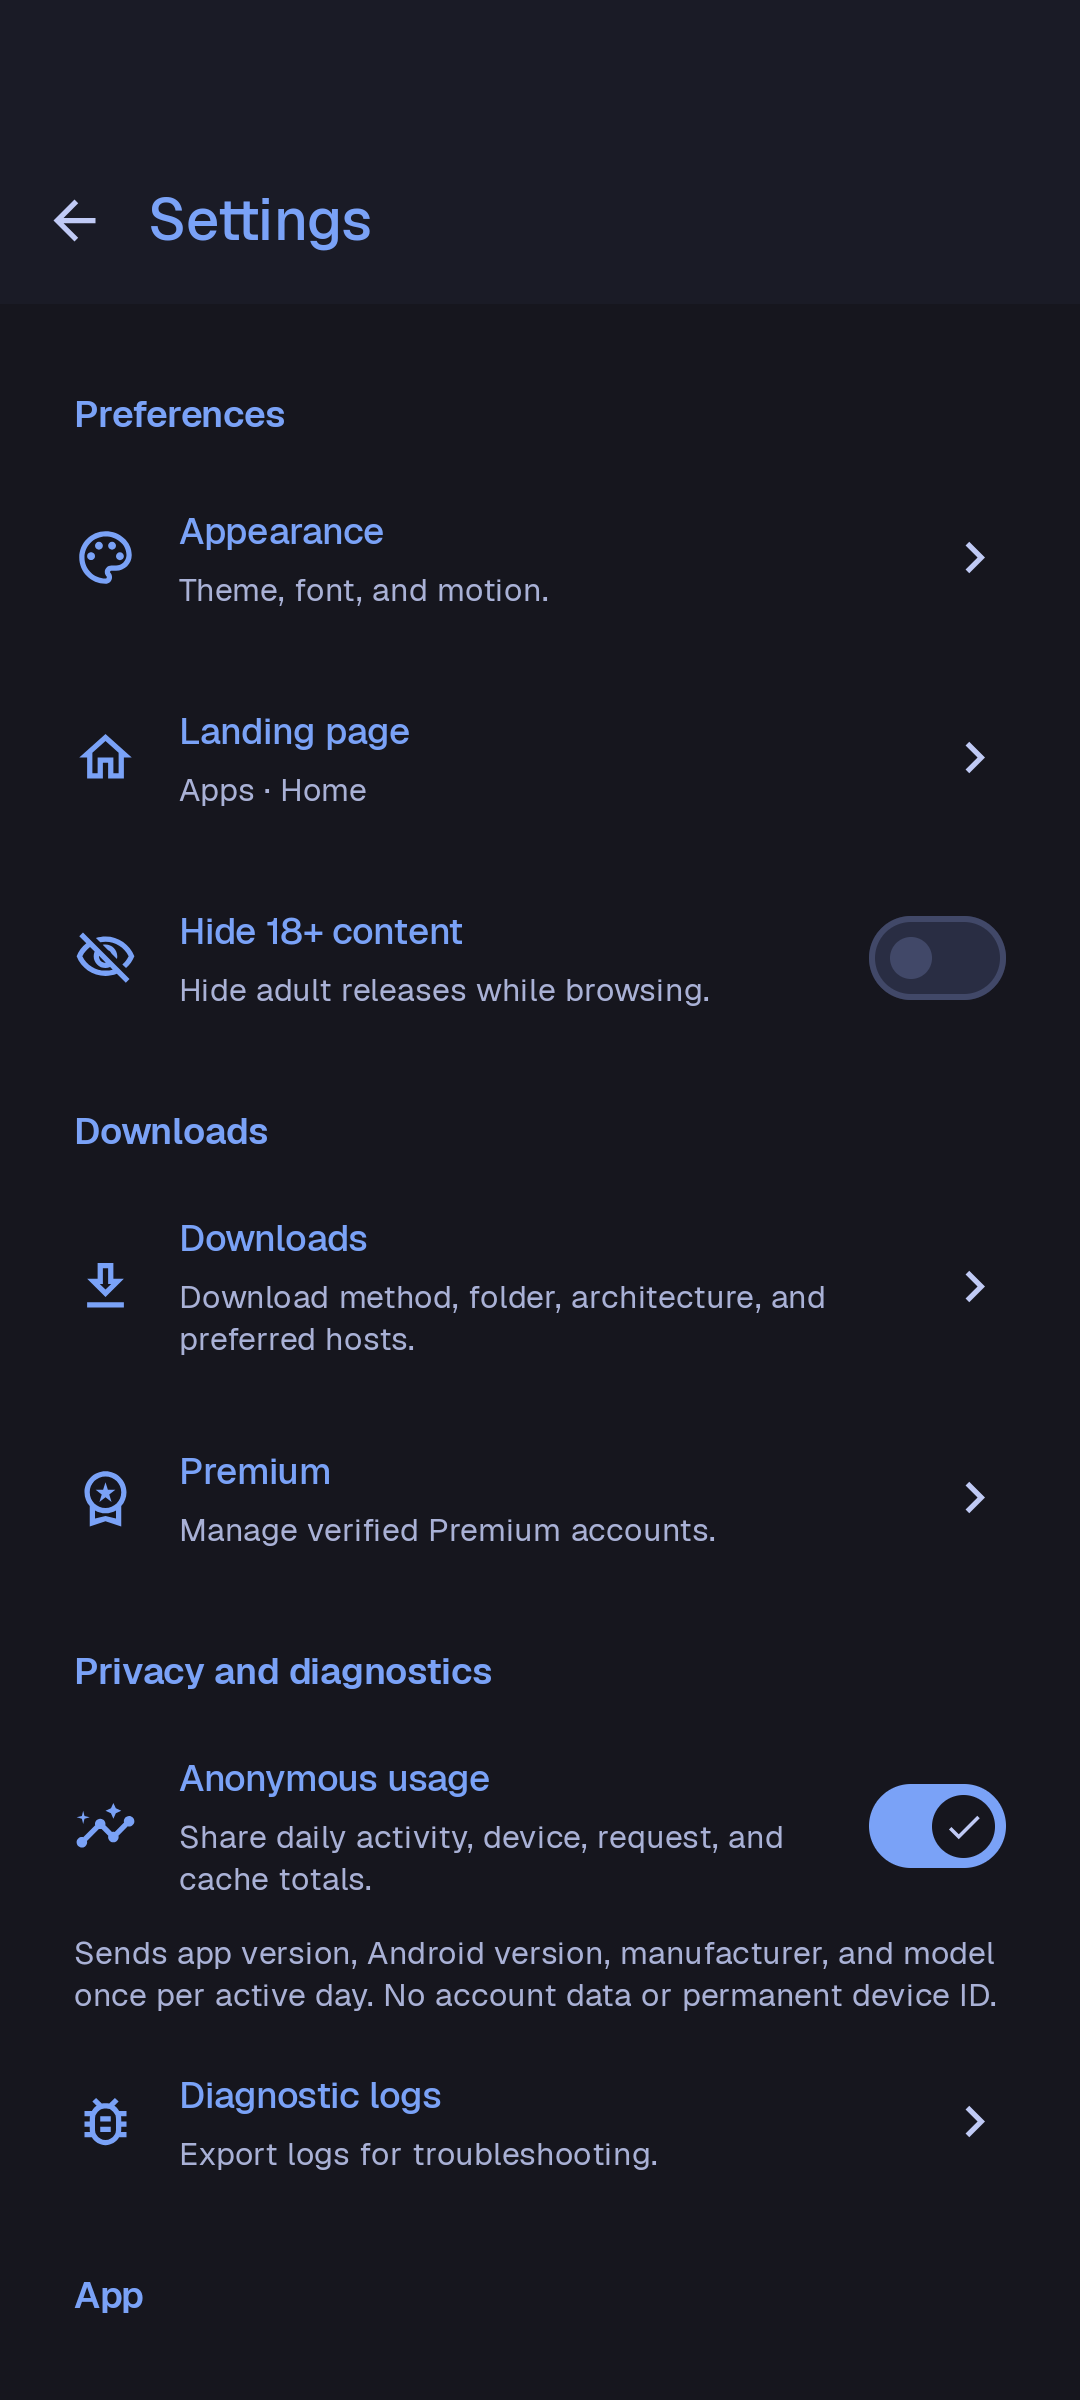
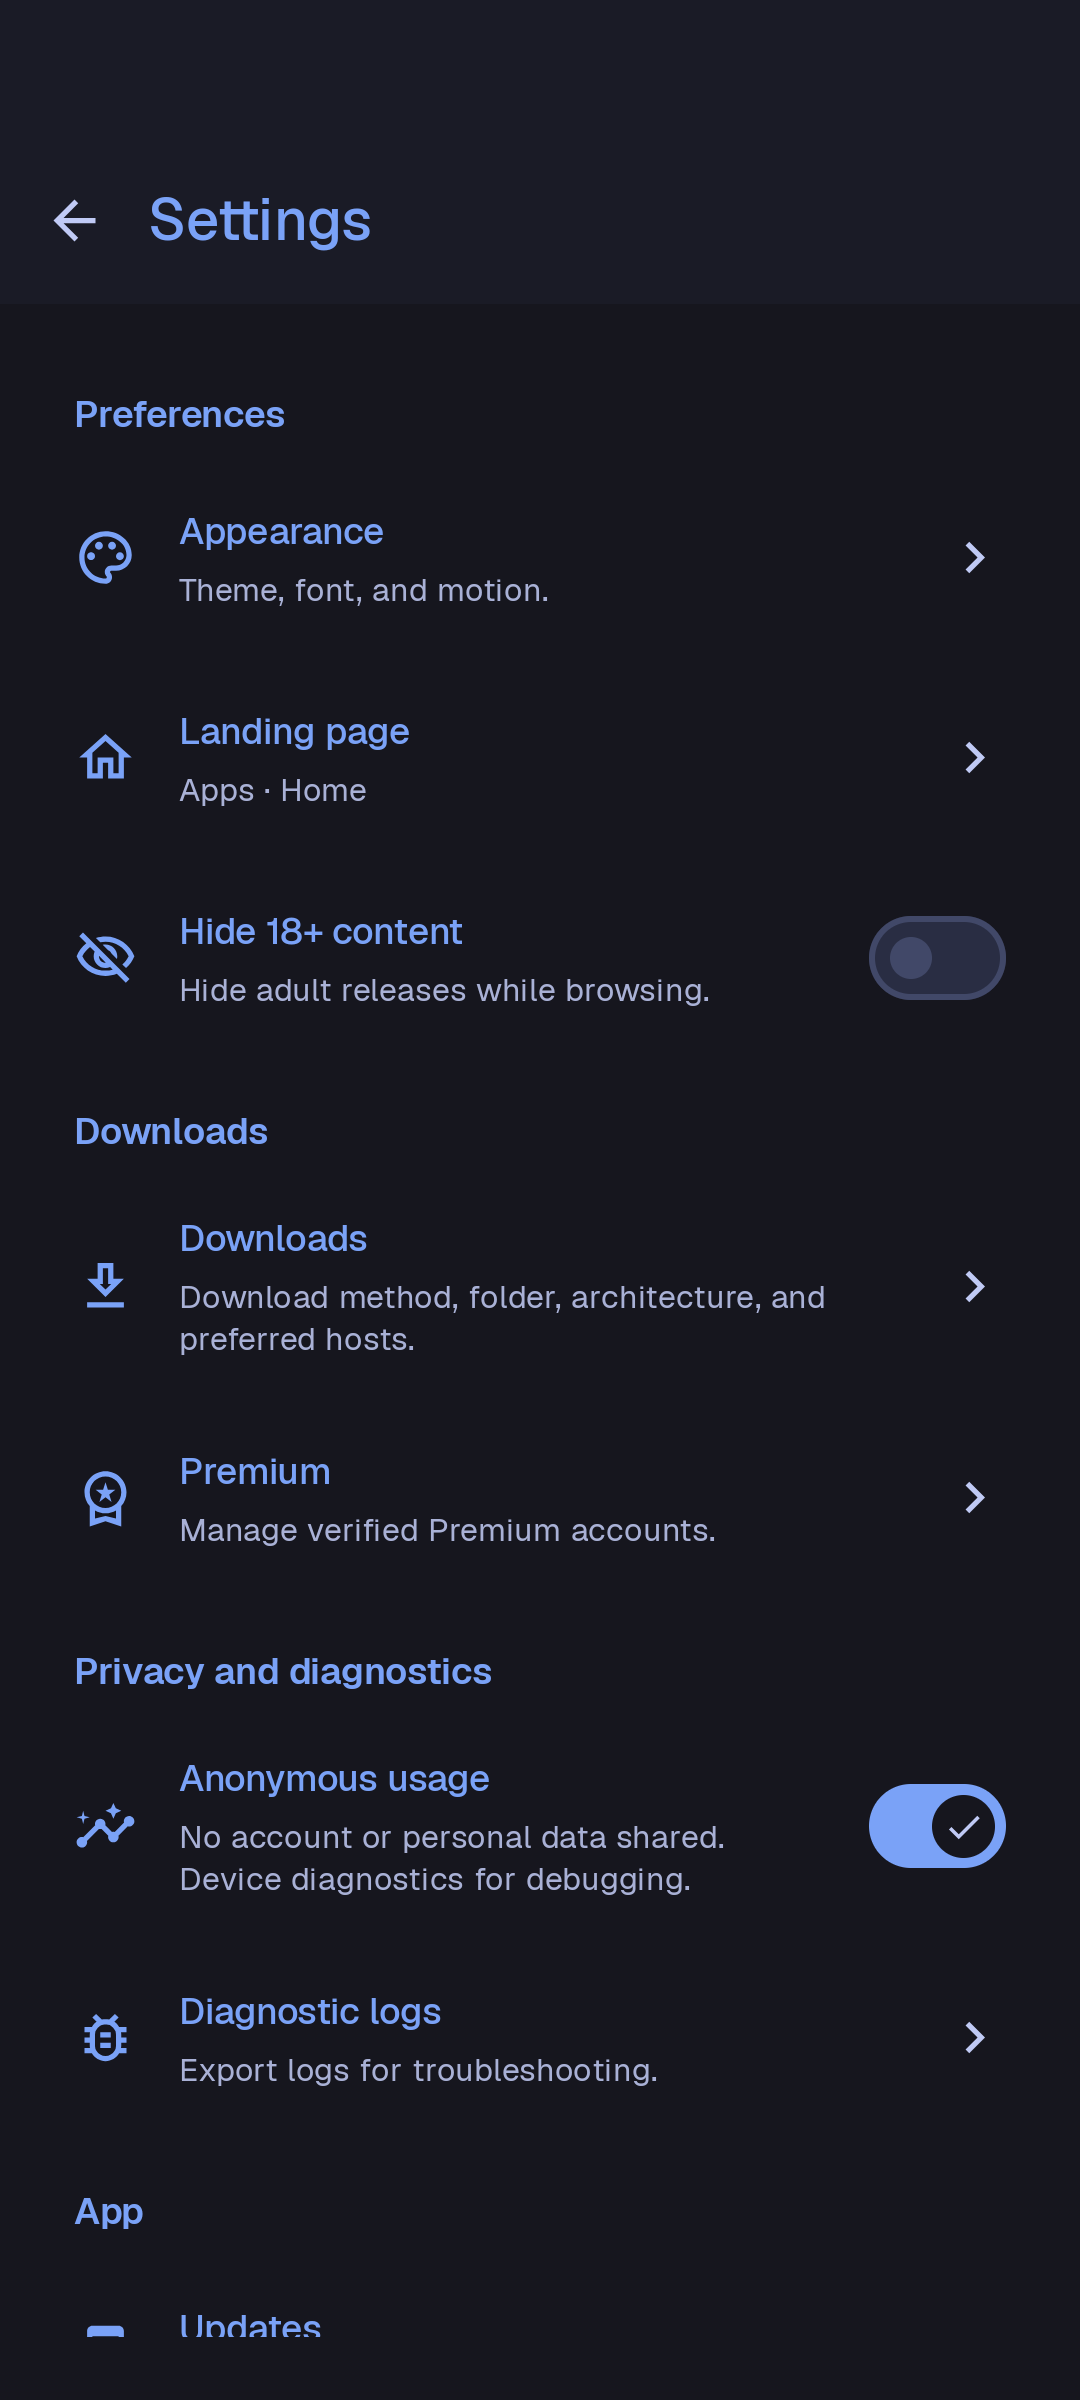
Release 0.1.25 and refresh the Settings screenshot
README-Screenshots: supplied

Changed region(s): [[0.0611, 0.75, 0.9167, 1.0]]

diff --git a/CHANGELOG.md b/CHANGELOG.md
@@ -1,5 +1,12 @@
 # Changelog
 
+## 0.1.25
+
+- Improved update notifications for followed apps
+- In app downloader for premium links is now available
+- Expanded functionality for private messages and comments
+- Improved text formatting on release pages (can be turned off in settings)
+
 ## 0.1.24
 
 - Improved update notifications for followed apps
